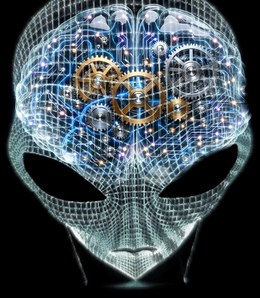
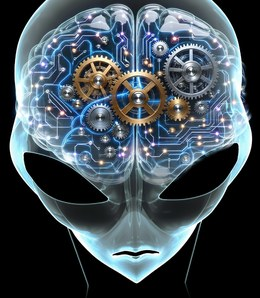
Clear wallpaper uses the user's glass alien (aligned by the eyes) with the glass brain

diff --git a/app/src/main/java/com/jp/otherworld/wallpaper/Wallpapers.kt b/app/src/main/java/com/jp/otherworld/wallpaper/Wallpapers.kt
@@ -528,7 +528,7 @@ class AlienGreenWallpaperService : AlienWallpaperService() {
     override val seam = 0xFFB8FFB0.toInt()
 }
 
-/** Clear glass alien (art/derived/alien_clear.png) with the user's glass brain showing through. */
+/** The user's glass alien (art/originals/alien_glass.png, lined up by the eyes) with their glass brain inside. */
 class AlienClearWallpaperService : AlienWallpaperService() {
     override val asset = "alien_clear.png"
     override val seam = 0xFFE8FBFF.toInt()

diff --git a/art/README.md b/art/README.md
@@ -80,4 +80,4 @@ generated/icon/store/: play_store_512.png (Play listing), app_store_1024.png (no
 | assets/morph/ (rebuilt), smoke_puff_0..2.webp | User: "the world stops spinning when it blows… not lined up… smoke contained in a bubble, can it rise up". The wheel now spins globe frames 0–59 (same side as the morph starts), then morph frames rebuilt with tools/smoke_over_spin.py: the real spinning Earth (continuing from frame 60) shows wherever the draft's frozen Earth is, the draft's grey smoke over it, then Mars. Smoke puffs (cut from the smoke frames, radial fade, brightened) rise out of the top of the globe during the smoke, timed by morph frames. |
 | assets/sounds/boom_1.wav | Low boom when the Earth bursts into smoke in the wheel (2026-10-12, "can i get a low boom"): generated/sounds/vault/boom_a.mp3 kept low (≤300 Hz) with 90–420 Hz harmonics of the rumble so phone speakers play it, soft-saturated, 2.6 s, −14 dB RMS. Wheel sounds → "Earth → Mars boom" (on/off, volume, default 70%). |
 | originals/brain.svg, originals/brain_glass.png | The user's brain art (magnific, 2026-10-12). brain_glass.png ("this one is the right one") cropped to the brain, near-black lifted to pure black, then (user: "make glass brain fill the head") scaled to the full face width, cut to the head silhouette with the eye holes clear and faded out below the eyes → assets/alien_brain_layer.webp (2× face size). Screened on the new "Brain" wallpaper = the white (ice) alien. derived/brain_cut.png = the SVG version's cut-out (not used). |
-| derived/alien_clear.png | originals/alien.png made clear like glass (2026-10-13, "put the clear alien and clear brain"): colour cut to 35%, panes faint (alpha ×0.35) with the bright lines kept. Shipped as assets/alien_clear.png; "Clear" wallpaper = this + the glass brain filling the head. |
+| originals/alien_glass.png → derived/alien_clear.png | The user's glass alien (magnific, 2026-10-13, "this one"): aligned to originals/alien.png by the eye holes (scale 0.543), brightness → see-through (alpha = (v/150)^0.6), 521×597. Shipped as assets/alien_clear.png; "Clear" wallpaper = this + the glass brain filling the head. Replaces my earlier see-through mesh version. |
